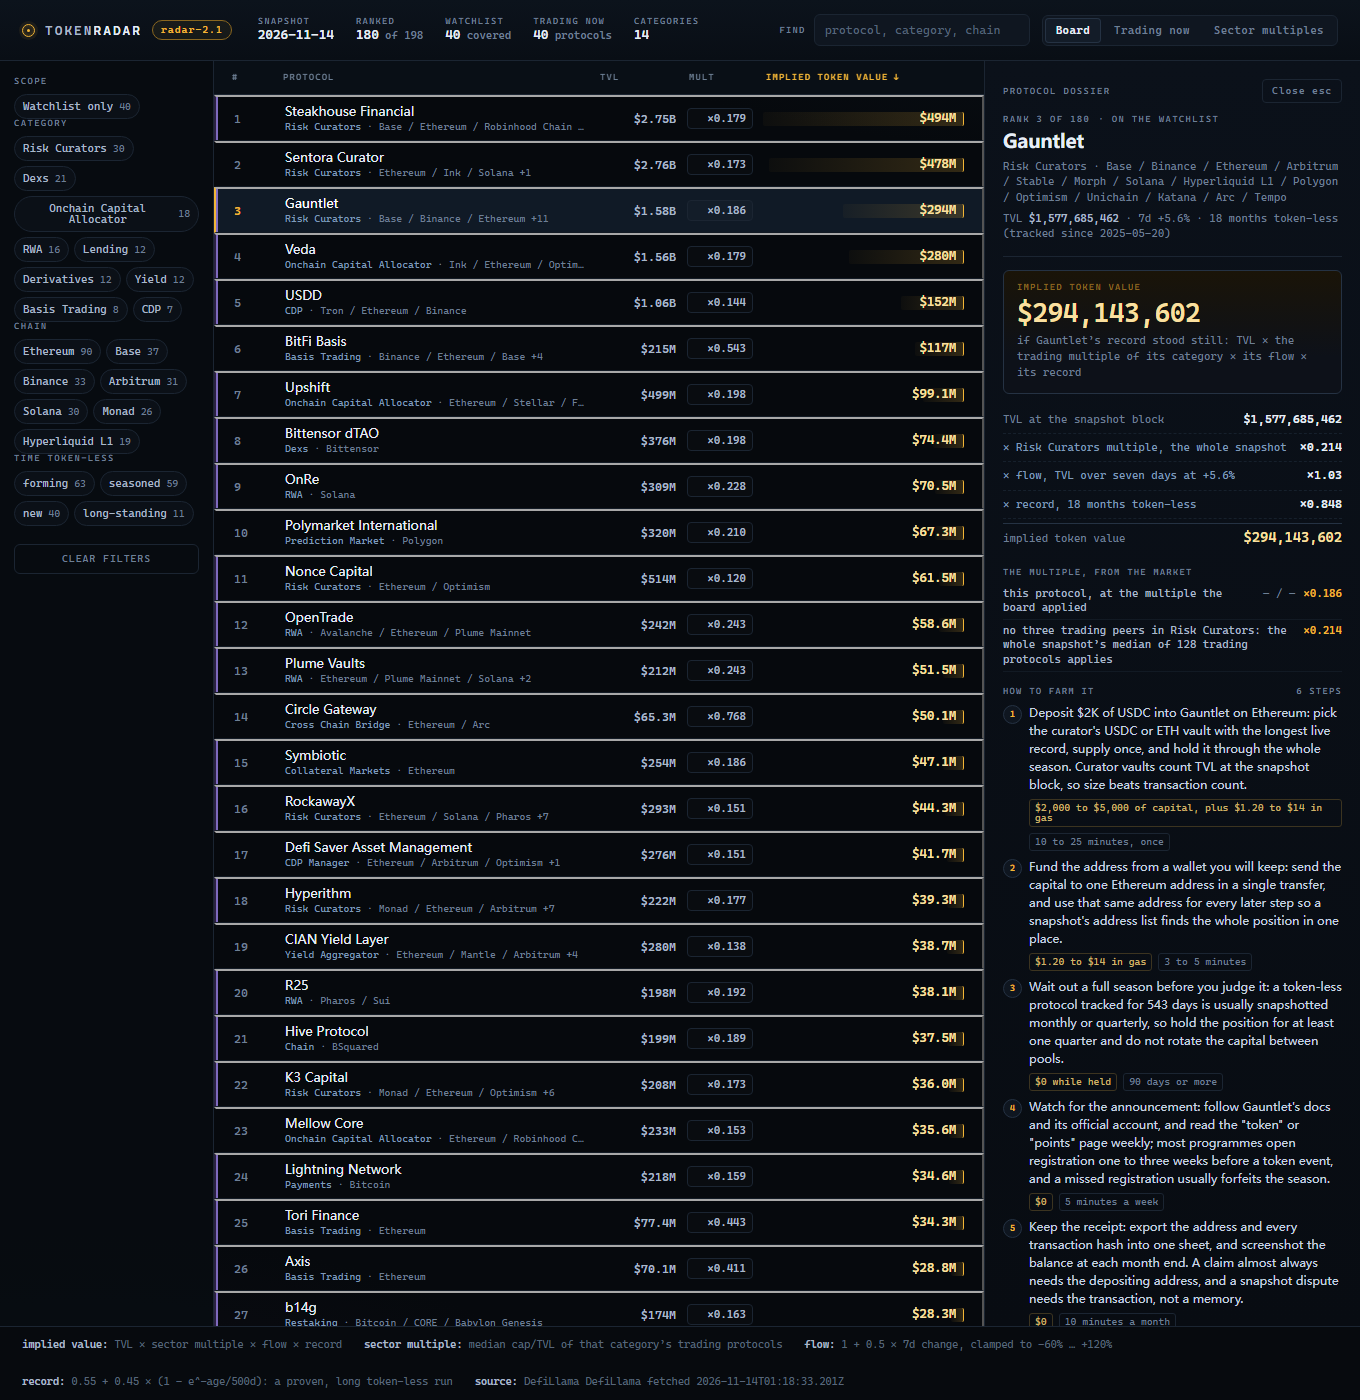
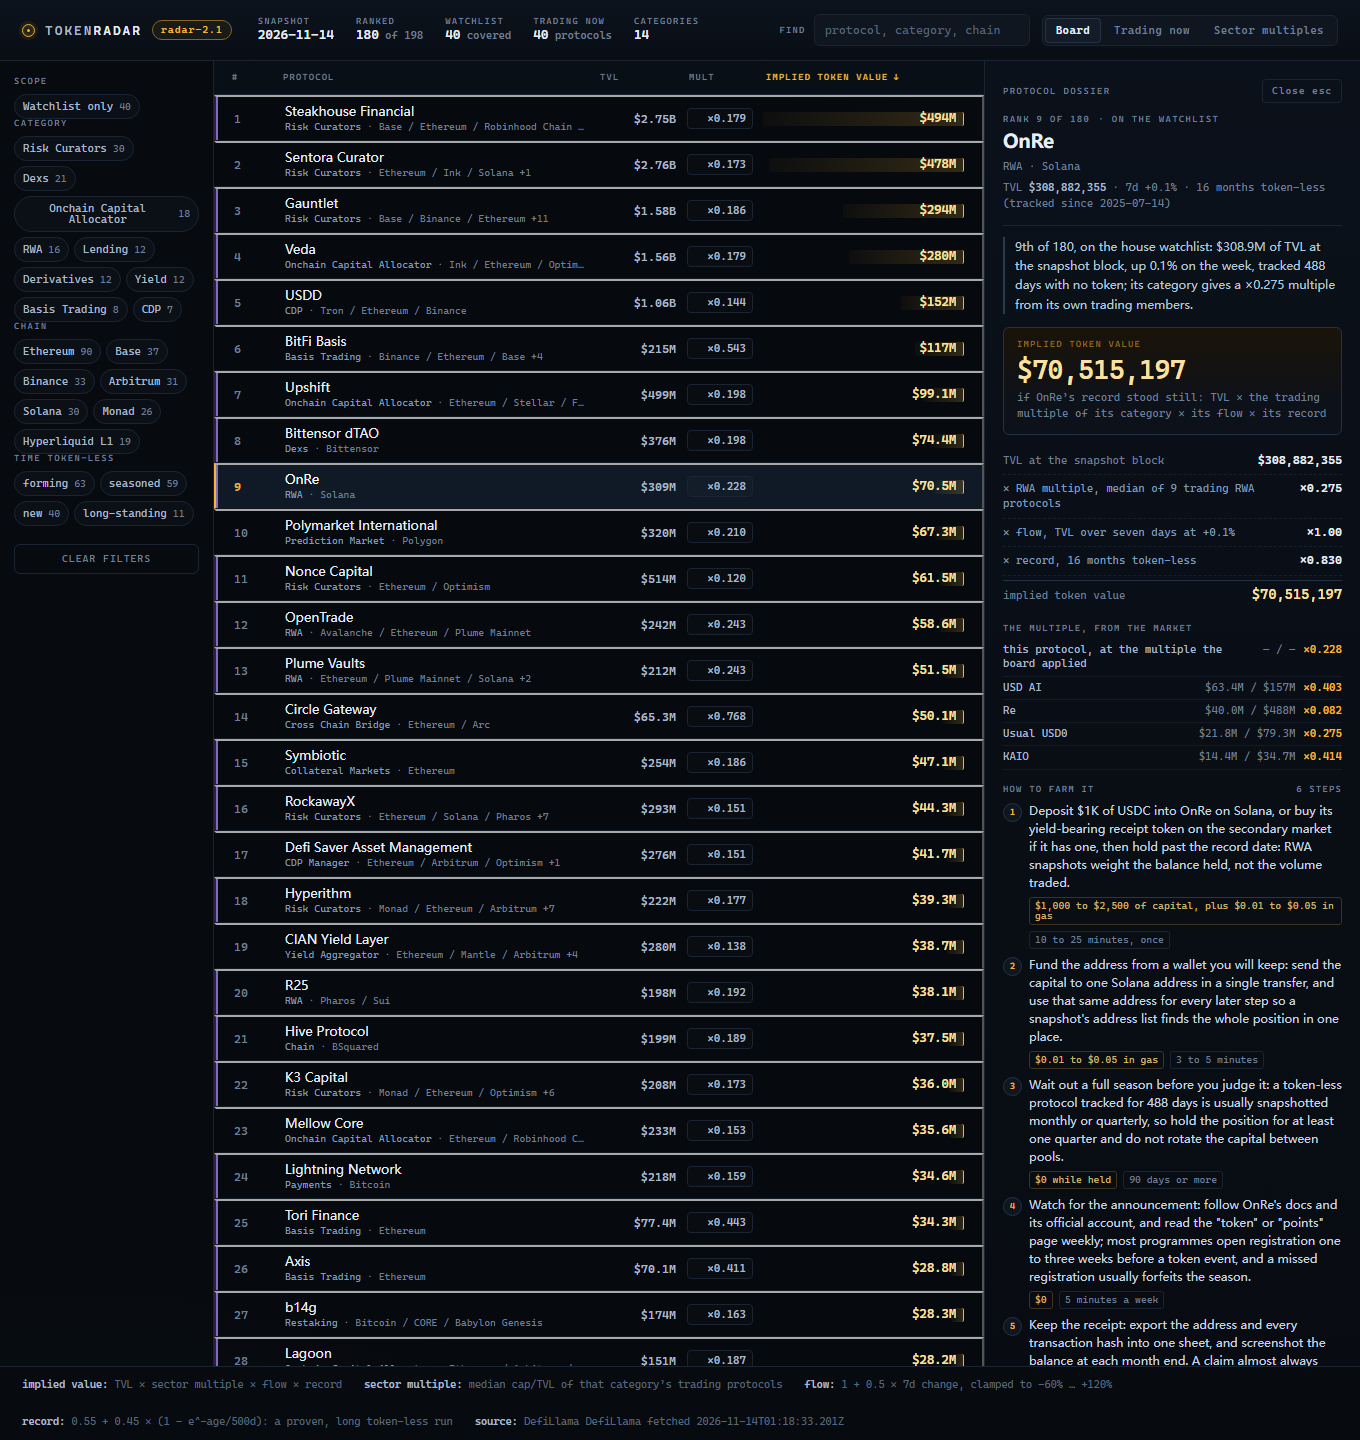
Say why a protocol ranks where it does, and what the plan costs in total
Each row's dossier now opens with a sentence a reader can check against the figures: its
rank, whether it is on the house watchlist or below the floor, its TVL, its seven-day flow,
how long it has run token-less and where its multiple came from. The farm plan closes with
one line naming the capital, the gas and the time it asks for. The detail screenshot now
shows a protocol whose category has trading peers, so the multiple is evidenced on the page.

diff --git a/lib/radar.ts b/lib/radar.ts
@@ -122,6 +122,7 @@ export interface Radar {
     tvl: number; chg: number | null; mcap: number | null; listed: string | null; age: number | null;
     watch: boolean; band: string; implied: number; sector: number; sectorBasis: string;
     growth: number; maturity: number; steps: Step[];
+    why: string; total: { capital: string; gas: string; time: string };
   }[];
   live: Live[];
 }
@@ -287,6 +288,40 @@ function money(n: number): string {
   if (n >= 1e6) return `$${round(n / 1e6, 1)}M`;
   if (n >= 1e3) return `$${round(n / 1e3, 1)}K`;
   return `$${Math.round(n)}`;
+}
+
+function ordinal(n: number): string {
+  const s = ['th', 'st', 'nd', 'rd'];
+  const v = n % 100;
+  return n + (s[(v - 20) % 10] ?? s[v] ?? s[0]!);
+}
+
+/** One sentence a reader can check against the numbers above it. */
+export function whyLine(
+  row: { rank: number; rows: number; name: string; category: string | null; tvl_usd: number; change_7d: number | null; age_days: number | null; watchlist: boolean; hasPeers: boolean; multiplier: number },
+): string {
+  const parts: string[] = [];
+  parts.push(`${money(row.tvl_usd)} of TVL at the snapshot block`);
+  parts.push(row.change_7d === null ? 'no seven-day figure on record' : `${row.change_7d >= 0 ? 'up' : 'down'} ${Math.abs(row.change_7d).toFixed(1)}% on the week`);
+  parts.push(row.age_days === null ? 'tracked for an unrecorded time' : `tracked ${row.age_days} days with no token`);
+  const head = `${row.rank === 1 ? 'Top of the board' : `${ordinal(row.rank)} of ${row.rows}`}`;
+  const where = row.watchlist ? 'on the house watchlist' : 'below the house floor but still launchable';
+  const tail = row.hasPeers
+    ? `its category gives a ×${row.multiplier.toFixed(3)} multiple from its own trading members`
+    : `its category has no three trading peers, so the whole snapshot's ×${row.multiplier.toFixed(3)} applies`;
+  return `${head}, ${where}: ${parts.join(', ')}; ${tail}.`;
+}
+
+/** What the plan asks of the reader, in one place. */
+export function planTotal(p: SnapshotProtocol): { capital: string; gas: string; time: string } {
+  const chain = primaryChain(p);
+  const g = gas(chain);
+  const size = position(p.tvl_usd);
+  return {
+    capital: `${size.text} of capital`,
+    gas: `${g.low} to ${g.high} a move`,
+    time: 'about 2 hours up front, then 5 minutes a week and 10 minutes a month',
+  };
 }
 
 /** The deposit-shaped core of a farm plan, by what the protocol actually does. */
@@ -511,6 +546,19 @@ export function buildRadar(snapshot: Snapshot, model: Model = MODEL): { rows: Ro
         sectorBasis: bySector.get(r.sector_source)?.basis ?? 'the whole snapshot',
         growth: r.growth_multiple,
         maturity: r.maturity_multiple,
+        why: whyLine({
+          rank: r.rank,
+          rows: rows.length,
+          name: r.name,
+          category: r.category,
+          tvl_usd: r.tvl_usd,
+          change_7d: r.change_7d,
+          age_days: r.age_days,
+          watchlist: r.watchlist,
+          hasPeers: bySector.get(r.sector_source)?.basis.startsWith('median of') === true,
+          multiplier: r.sector_multiple,
+        }),
+        total: planTotal(snapshot.protocols.find((p) => p.slug === r.slug)!),
         steps: farmSteps(
           snapshot.protocols.find((p) => p.slug === r.slug)!,
           r.age_days,

diff --git a/dashboard/app.js b/dashboard/app.js
@@ -431,6 +431,9 @@
     head.appendChild(meta2);
     d.appendChild(head);
 
+    var why = el('p', 'why', row.why);
+    d.appendChild(why);
+
     var vb = el('div', 'value-block');
     vb.appendChild(el('div', 'lbl', 'Implied token value'));
     vb.appendChild(el('div', 'v', full(row.implied)));
@@ -482,6 +485,15 @@
       plan.appendChild(li);
     });
     d.appendChild(plan);
+
+    var total = el('div', 'plantotal');
+    total.appendChild(el('span', null, 'The whole plan'));
+    var t2 = el('div', 't');
+    t2.appendChild(el('i', 'c', row.total.capital));
+    t2.appendChild(el('i', 'c', row.total.gas));
+    t2.appendChild(el('i', null, row.total.time));
+    total.appendChild(t2);
+    d.appendChild(total);
 
     var note = el('div', 'note');
     note.textContent = 'It records no token: DefiLlama\u2019s record carries neither a ticker nor a coin id for it. That is not proof none exists \u2014 a record can lag. Implied value ranks what its figures would be worth today, and says nothing about whether or when a token is issued.';

diff --git a/dashboard/app.css b/dashboard/app.css
@@ -454,6 +454,32 @@ body {
 }
 .d-head .meta b { color: var(--text-2); font-weight: 500; }
 
+.why {
+  margin: 11px 0 0;
+  font: 400 12px/1.6 var(--sans);
+  color: #b6c6d8;
+  padding-left: 10px;
+  border-left: 2px solid #2a3a4e;
+}
+.why:hover { border-left-color: var(--amber-dim); }
+
+.plantotal {
+  margin-top: 13px;
+  padding: 10px 12px;
+  border: 1px dashed #26333f;
+  border-radius: var(--r);
+  background: #0c1219;
+}
+.plantotal > span {
+  display: block;
+  font: 500 9px/1 var(--mono);
+  letter-spacing: 0.14em;
+  text-transform: uppercase;
+  color: var(--dim);
+  margin-bottom: 7px;
+}
+.plantotal .t { display: flex; flex-wrap: wrap; gap: 6px; }
+
 .value-block {
   margin: 13px 0 2px;
   padding: 12px 13px;
